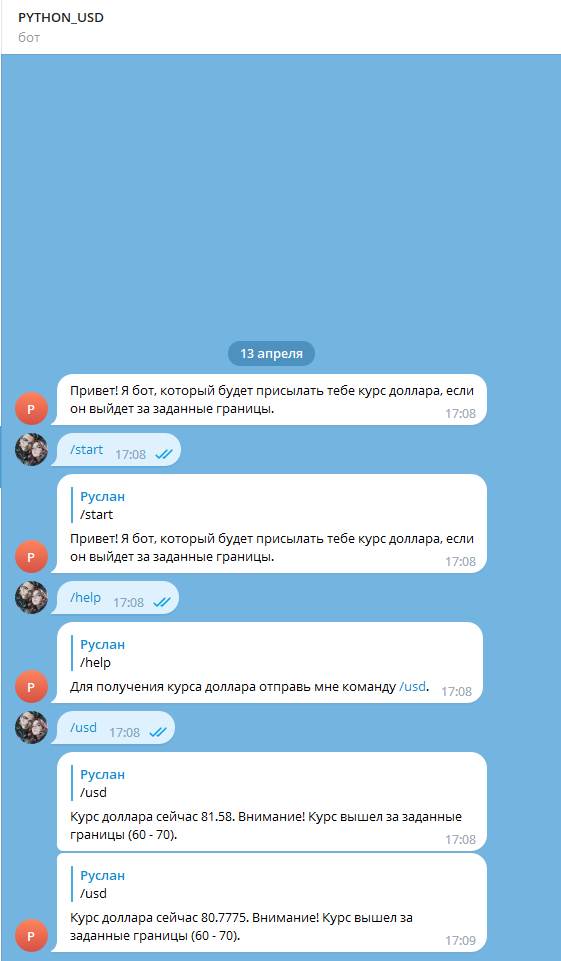
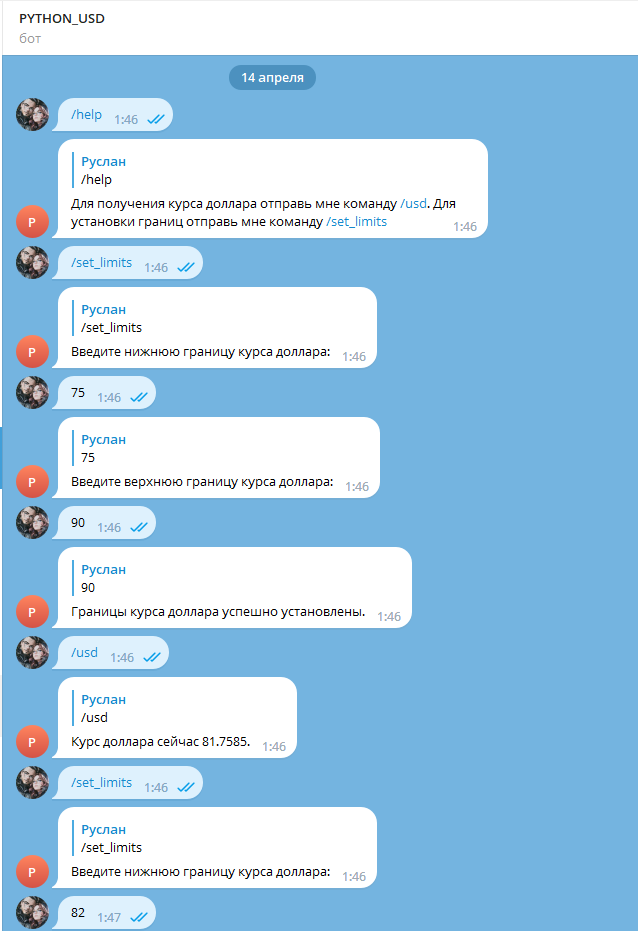
add limits

diff --git a/bot.py b/bot.py
@@ -4,10 +4,12 @@ from ExchangeRate import ExchangeRate
 class Bot:
     def __init__(self, token):
         self.bot = telebot.TeleBot(token)
+        self.exchange_rate = ExchangeRate()
         self.bot.message_handler(commands=['start'])(self.start)
         self.bot.message_handler(commands=['help'])(self.help)
         self.bot.message_handler(commands=['usd'])(self.usd)
-        self.bot.polling();
+        self.bot.message_handler(commands=['set_limits'])(self.set_limits)
+        self.bot.polling()
 
     def start(self, message):
         self.bot.reply_to(
@@ -15,15 +17,36 @@ class Bot:
 
     def help(self, message):
         self.bot.reply_to(
-            message, 'Для получения курса доллара отправь мне команду /usd.')
+            message, 'Для получения курса доллара отправь мне команду /usd. Для установки границ отправь мне команду /set_limits')
+
+    def set_limits(self, message):
+        self.bot.reply_to(message, 'Введите нижнюю границу курса доллара:')
+        self.bot.register_next_step_handler(message, self.set_lower_limit)
+
+    def set_lower_limit(self, message):
+        try:
+            self.exchange_rate.lower_limit = float(message.text)
+            self.bot.reply_to(message, 'Введите верхнюю границу курса доллара:')
+            self.bot.register_next_step_handler(message, self.set_upper_limit)
+        except ValueError:
+            self.bot.reply_to(message, 'Неверный формат числа. Попробуйте еще раз.')
+            self.bot.register_next_step_handler(message, self.set_lower_limit)
+
+    def set_upper_limit(self, message):
+        try:
+            self.exchange_rate.upper_limit = float(message.text)
+            self.bot.reply_to(message, 'Границы курса доллара успешно установлены.')
+        except ValueError:
+            self.bot.reply_to(message, 'Неверный формат числа. Попробуйте еще раз.')
+            self.bot.register_next_step_handler(message, self.set_upper_limit)
 
     def usd(self, message):
-        exchange_rate = ExchangeRate()
         while True:
-            usd_rate = exchange_rate.get_usd_rate()
-            if usd_rate < exchange_rate.lower_limit or usd_rate > exchange_rate.upper_limit:
-                self.bot.reply_to(message, 'Курс доллара сейчас %s. Внимание! Курс вышел за заданные границы (%s - %s).' %
-                                  (usd_rate, exchange_rate.lower_limit, exchange_rate.upper_limit))
+            usd_rate = self.exchange_rate.get_usd_rate()
+            if usd_rate < self.exchange_rate.lower_limit or usd_rate > self.exchange_rate.upper_limit:
+                self.bot.reply_to(message,
+                                  'Курс доллара сейчас %s. Внимание! Курс вышел за заданные границы (%s - %s).' %
+                                  (usd_rate, self.exchange_rate.lower_limit, self.exchange_rate.upper_limit))
             else:
                 self.bot.reply_to(message, f'Курс доллара сейчас {usd_rate}.')
             time.sleep(60)

diff --git a/README.md b/README.md
@@ -6,7 +6,7 @@ PYTHON-USD-PARSE - это телеграмм-бот, который позвол
 - Введите команду /start, для начала работы с ботом
 - Введите команду /help, для получение помощи пользования ботом
 - Введите команду /usd, для получение текущего курса
-- Чтобы изменить заданные границы - перейдите в файл ExchangeRate.py и измените две переменные "lower_limit", "upper_limit"
+- Введите команду /set_limits для изменение границ
 
 # Для работы бота нужно:
 - Python 3.7 +
@@ -16,3 +16,4 @@ PYTHON-USD-PARSE - это телеграмм-бот, который позвол
 - requests
 # Пример работы с ботом
 ![Текст с описанием картинки](test.png)
+![Текст с описанием картинки](test2.png)
